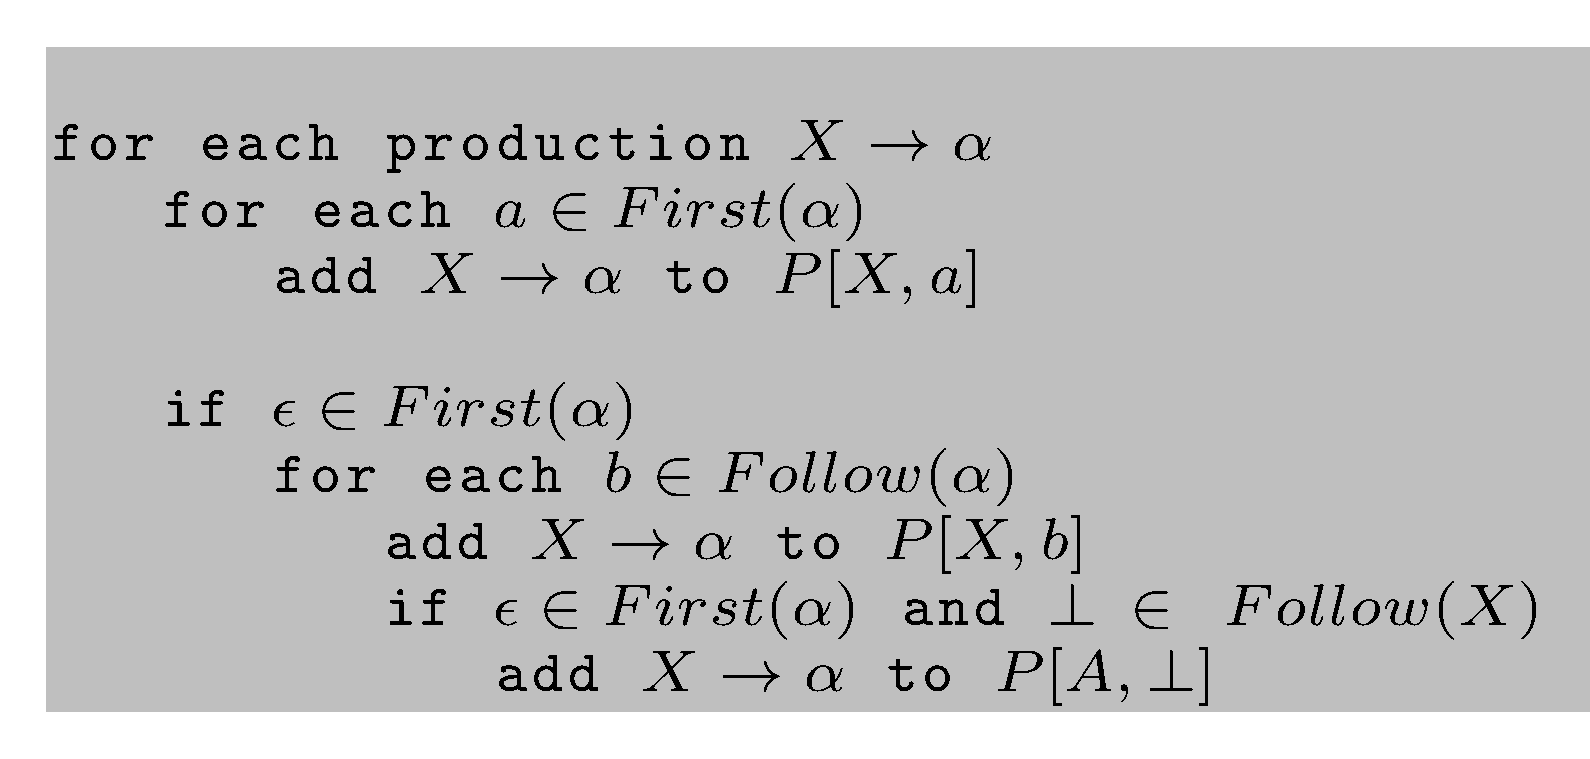
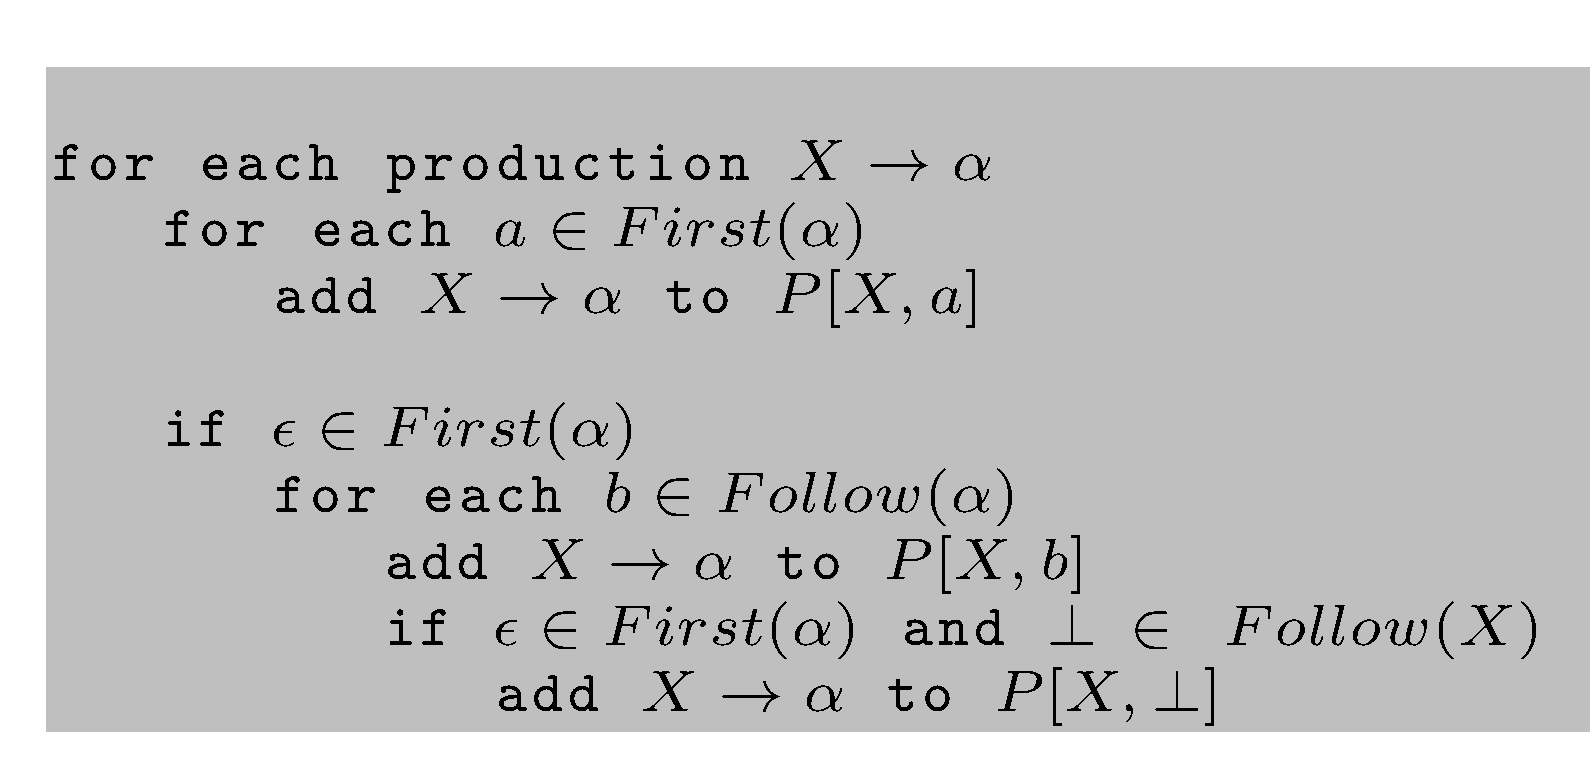
Lecture: fix typo in LL parser table image (CFG) (#304)
replaces #302

---------

diff --git a/lecture/02-parsing/images/LL-Parsertabelle.tex b/lecture/02-parsing/images/LL-Parsertabelle.tex
@@ -20,7 +20,7 @@ for each production $X \rightarrow\alpha$
       for each $b \in Follow(\alpha)$
          add $X \rightarrow\alpha$  to $P[X, b]$
          if $\epsilon  \in First(\alpha)$ and  $\perp \  \in \ Follow(X)$
-            add $X \rightarrow\alpha$ to $P[A, \perp]$            
+            add $X \rightarrow\alpha$ to $P[X, \perp]$            
             
 \end{lstlisting}
 \end{document}
